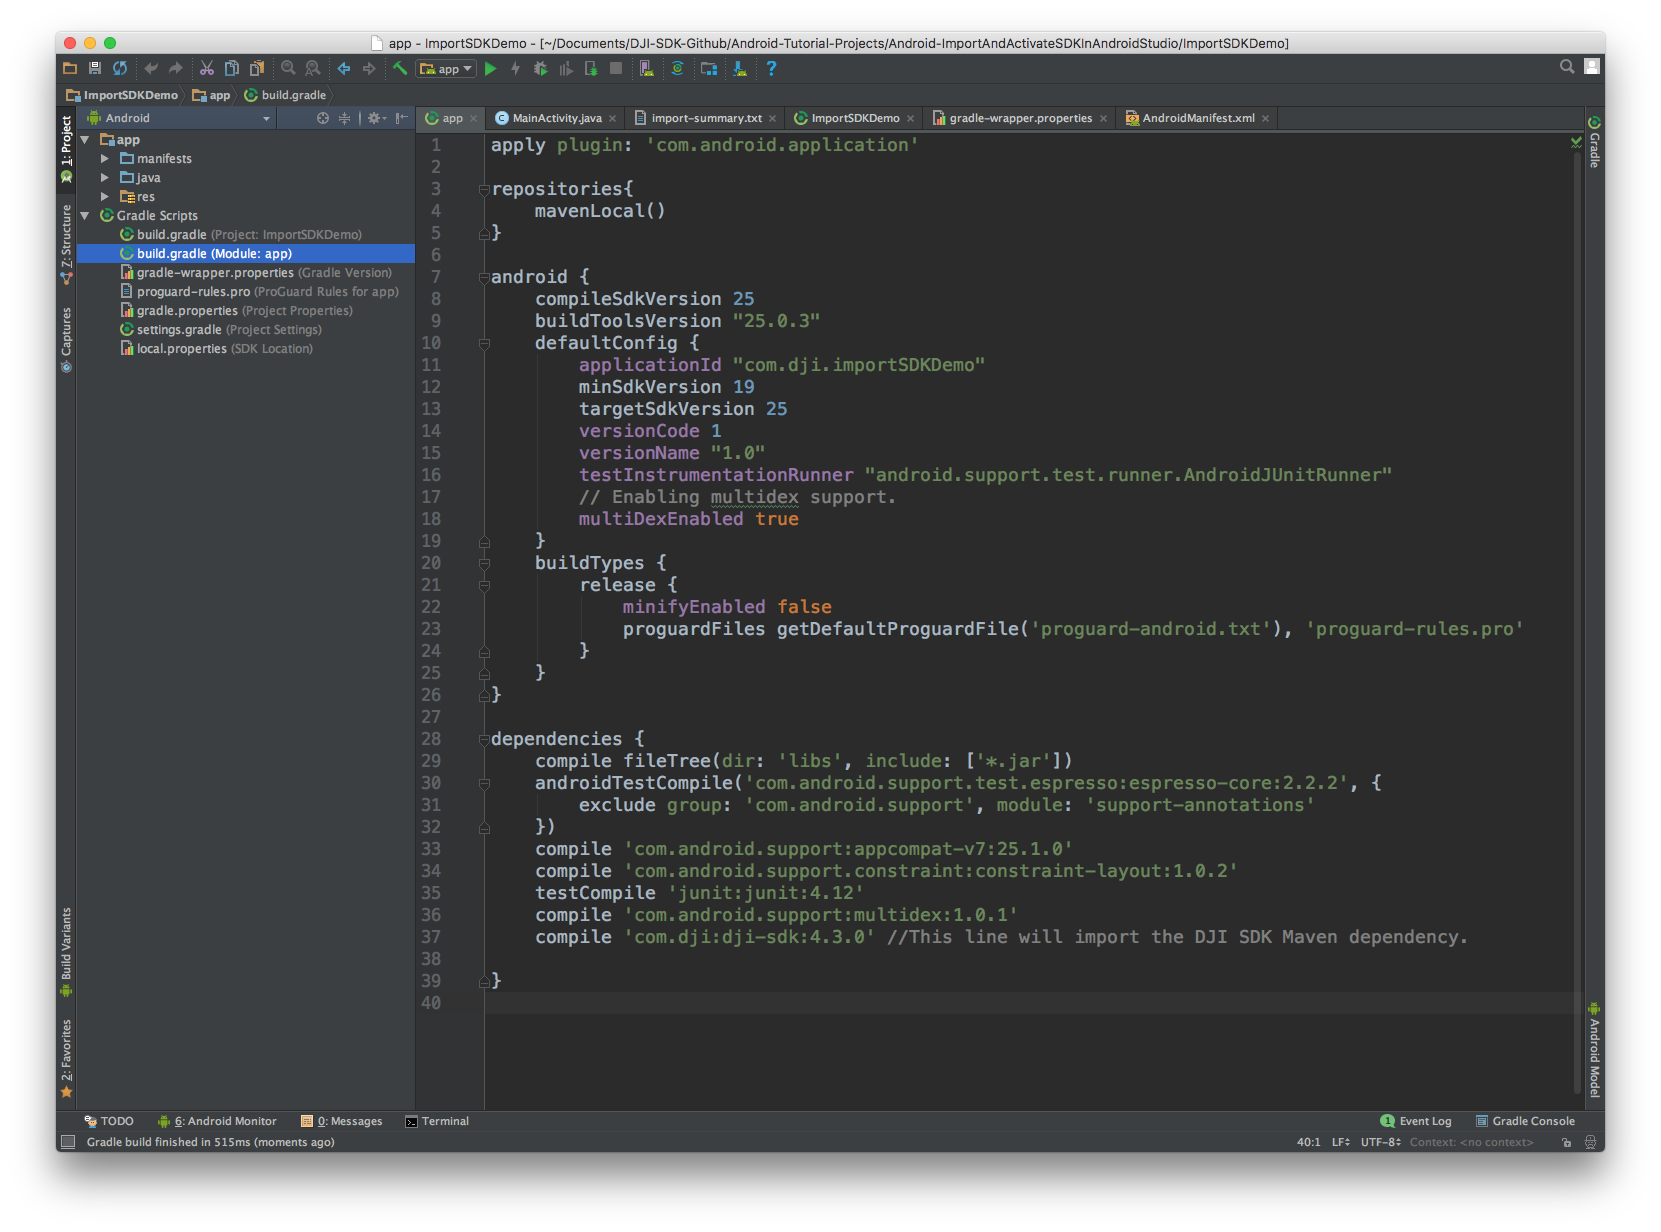
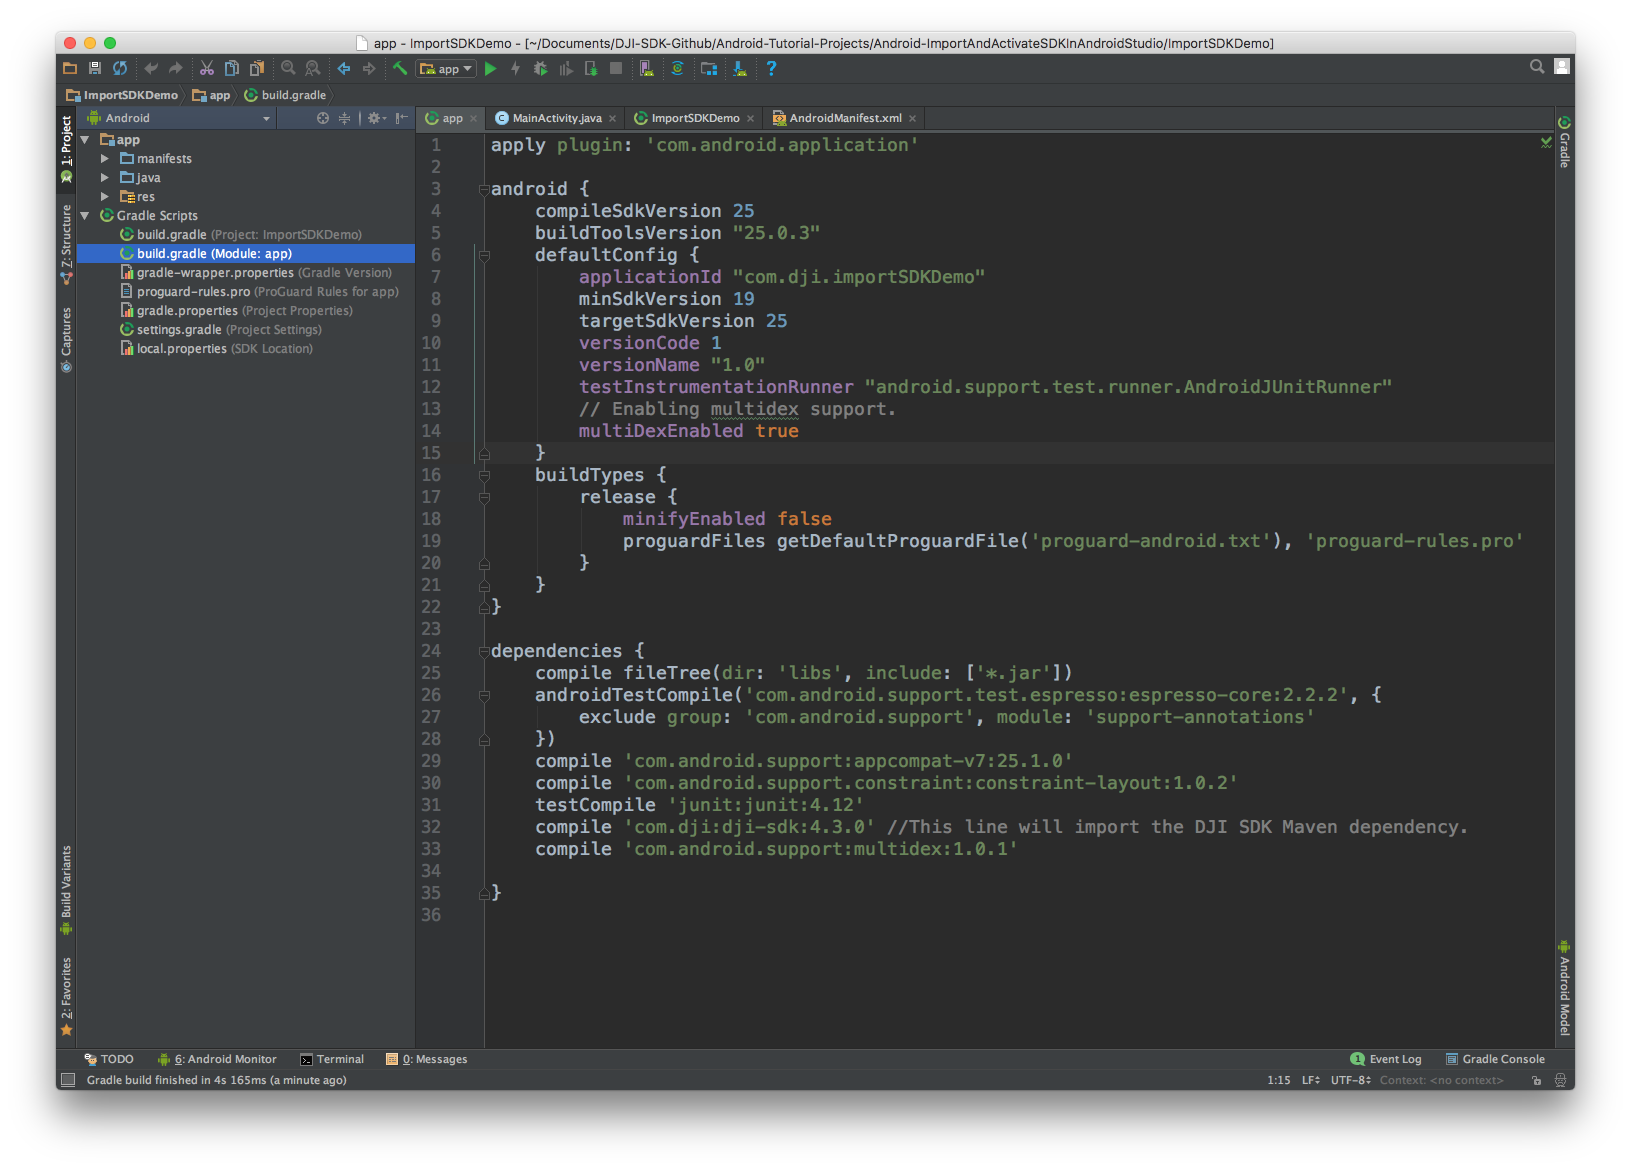
update maven dependency and gradle script for Android Studio Project Integration tutorial.

diff --git a/source/cn/application-development-workflow/workflow-integrate.md b/source/cn/application-development-workflow/workflow-integrate.md
@@ -176,15 +176,20 @@ A new application can be used to show how to integrate the DJI SDK into an Andro
 
 ### Import Maven Dependency
 
+  * Select **File->Project Structure** in the Android Studio menu to open the "Project Structure" window. Then select the "app" module and click the **Dependencies** tab. Press the "+" button at the bottom of the window and choose "Library Dependency".
+  <img src="../../images/application-development-workflow/libraryDependency.png" width=85%>
+
+  * Search for "dji-sdk" and select the latest version of DJI Android SDK and press "OK" to add the DJI Android SDK Maven Dependency to the project.
+  <img src="../../images/application-development-workflow/chooseLibraryDependency.png" width=85%>
+
+
+### Configure Gradle Script
+
   * In **Gradle Scripts** double click on **build.gradle (Module: app)**
-  ![AndroidConfigureGradleInitial](../../images/quick-start/AndroidConfigureGradleInitial.png)
+  ![AndroidConfigureGradleInitial](../../images/application-development-workflow/AndroidConfigureGradleInitial.png)
   * Add these lines in the `build.gradle(Module: app)` file:
 
 ~~~java
-repositories{
-    mavenLocal()
-}
-
 android {
     ...
     defaultConfig {
@@ -198,15 +203,12 @@ android {
 dependencies {
     ...
     compile 'com.android.support:multidex:1.0.1'
-    compile 'com.dji:dji-sdk:4.3.0' //This line will import the DJI SDK Maven dependency.
 }
 ~~~
 
 * The main changes should be:
-   * Add `mavenLocal()` to make Gradle look in the local Maven cache for dependencies.
    * Add `multiDexEnabled true` to enable multidex support.
    * Add `compile 'com.android.support:multidex:1.0.1'` to the **dependencies**.
-   * Add `compile 'com.dji:dji-sdk:4.3.0'` to import the DJI SDK Maven dependency.
 
    ![AndroidConfigureGradleAfterChange](../../images/application-development-workflow/AndroidConfigureGradleAfterChange.png)
    * Select **Tools -> Android -> Sync Project with Gradle Files** and wait for Gradle project sync to finish.

diff --git a/source/application-development-workflow/workflow-integrate.md b/source/application-development-workflow/workflow-integrate.md
@@ -176,15 +176,20 @@ A new application can be used to show how to integrate the DJI SDK into an Andro
 
 ### Import Maven Dependency
 
+  * Select **File->Project Structure** in the Android Studio menu to open the "Project Structure" window. Then select the "app" module and click the **Dependencies** tab. Press the "+" button at the bottom of the window and choose "Library Dependency".
+  <img src="../images/application-development-workflow/libraryDependency.png" width=85%>
+
+  * Search for "dji-sdk" and select the latest version of DJI Android SDK and press "OK" to add the DJI Android SDK Maven Dependency to the project.
+  <img src="../images/application-development-workflow/chooseLibraryDependency.png" width=85%>
+
+
+### Configure Gradle Script
+
   * In **Gradle Scripts** double click on **build.gradle (Module: app)**
-  ![AndroidConfigureGradleInitial](../images/quick-start/AndroidConfigureGradleInitial.png)
+  ![AndroidConfigureGradleInitial](../images/application-development-workflow/AndroidConfigureGradleInitial.png)
   * Add these lines in the `build.gradle(Module: app)` file:
 
 ~~~java
-repositories{
-    mavenLocal()
-}
-
 android {
     ...
     defaultConfig {
@@ -198,15 +203,12 @@ android {
 dependencies {
     ...
     compile 'com.android.support:multidex:1.0.1'
-    compile 'com.dji:dji-sdk:4.3.0' //This line will import the DJI SDK Maven dependency.
 }
 ~~~
 
 * The main changes should be:
-   * Add `mavenLocal()` to make Gradle look in the local Maven cache for dependencies.
    * Add `multiDexEnabled true` to enable multidex support.
    * Add `compile 'com.android.support:multidex:1.0.1'` to the **dependencies**.
-   * Add `compile 'com.dji:dji-sdk:4.3.0'` to import the DJI SDK Maven dependency.
 
    ![AndroidConfigureGradleAfterChange](../images/application-development-workflow/AndroidConfigureGradleAfterChange.png)
    * Select **Tools -> Android -> Sync Project with Gradle Files** and wait for Gradle project sync to finish.
